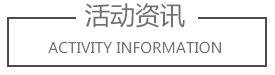
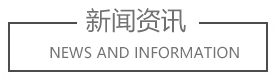
首页名称图片修改zj

Changed region(s): [[0.0, 0.0267, 0.9891, 0.9067], [0.1745, 0.5333, 0.8727, 0.72]]

diff --git a/src/components/common/nav.vue b/src/components/common/nav.vue
@@ -35,7 +35,7 @@
 
 						
 						<el-submenu index="4" class="nav_li" style="float:right">
-							<template slot="title">活动资讯</template>
+							<template slot="title">新闻资讯</template>
 							<router-link to="/activity"><el-menu-item index="4-1">景区新闻</el-menu-item></router-link>
 							<router-link to="/pages/hotactivity"><el-menu-item index="4-2">热门活动</el-menu-item></router-link>
 							<router-link to="/pages/travel"><el-menu-item index="4-3">旅游新闻</el-menu-item></router-link>			

diff --git a/src/components/index/index.vue b/src/components/index/index.vue
@@ -383,8 +383,8 @@ export default {
 	}
 	.middle_content .middle_content_nav{
 		display: block;
-		width: 275px;
-		height: 75px;
+		width: 277px;
+		height: 82px;
 		margin: 0px auto;
 	}
 	.index .wrap .middle_content .newsDate{

diff --git a/src/router/index.js b/src/router/index.js
@@ -109,7 +109,7 @@ const routes = [
     // 景区推荐
     {
     	path: '/spot',
-		component: spot
+			component: spot
     },
     // 活动咨询
 	{
